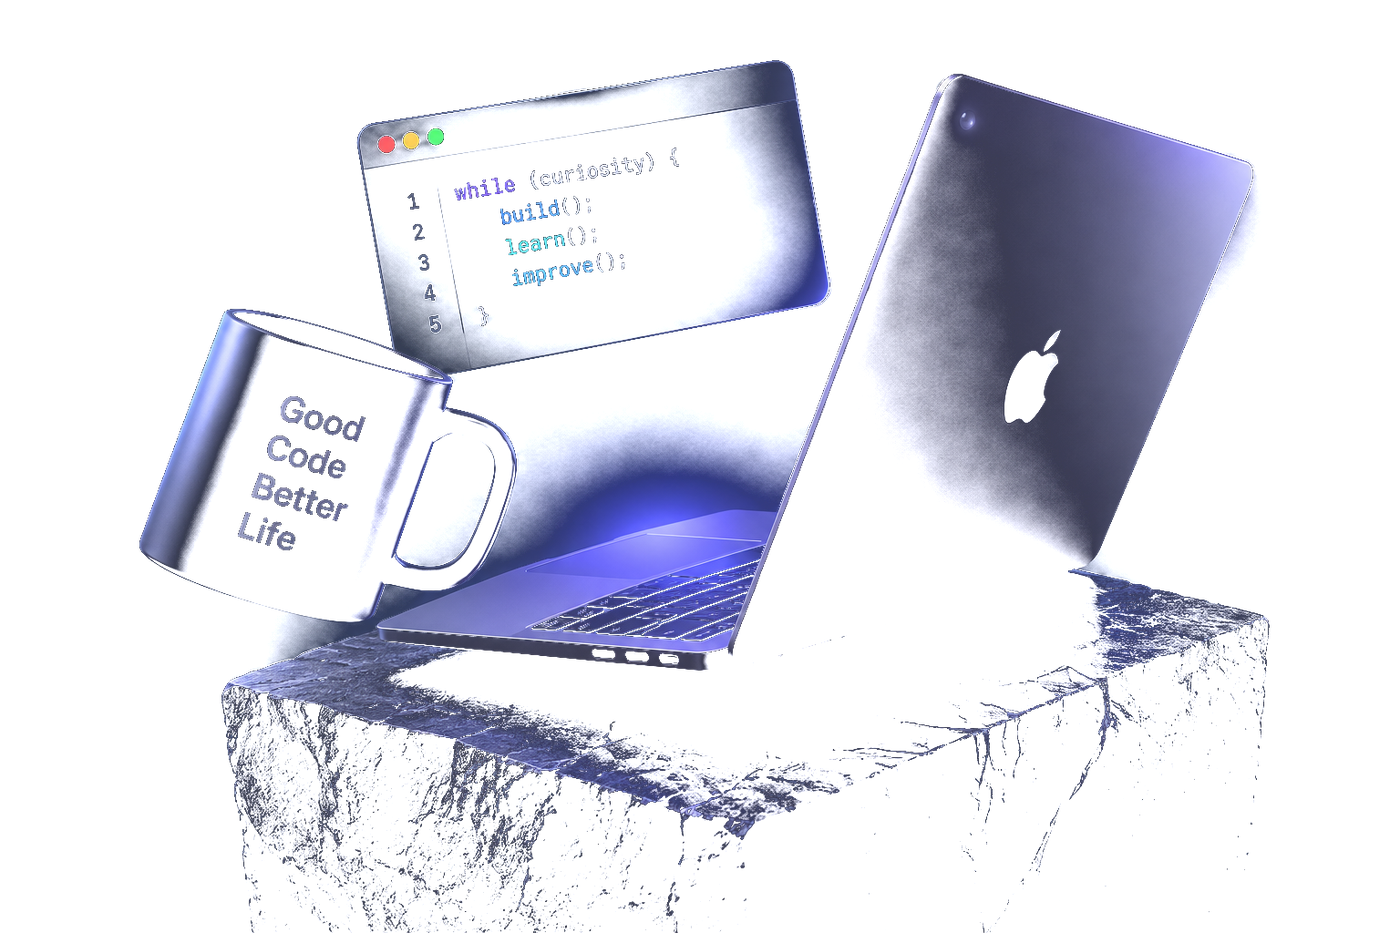
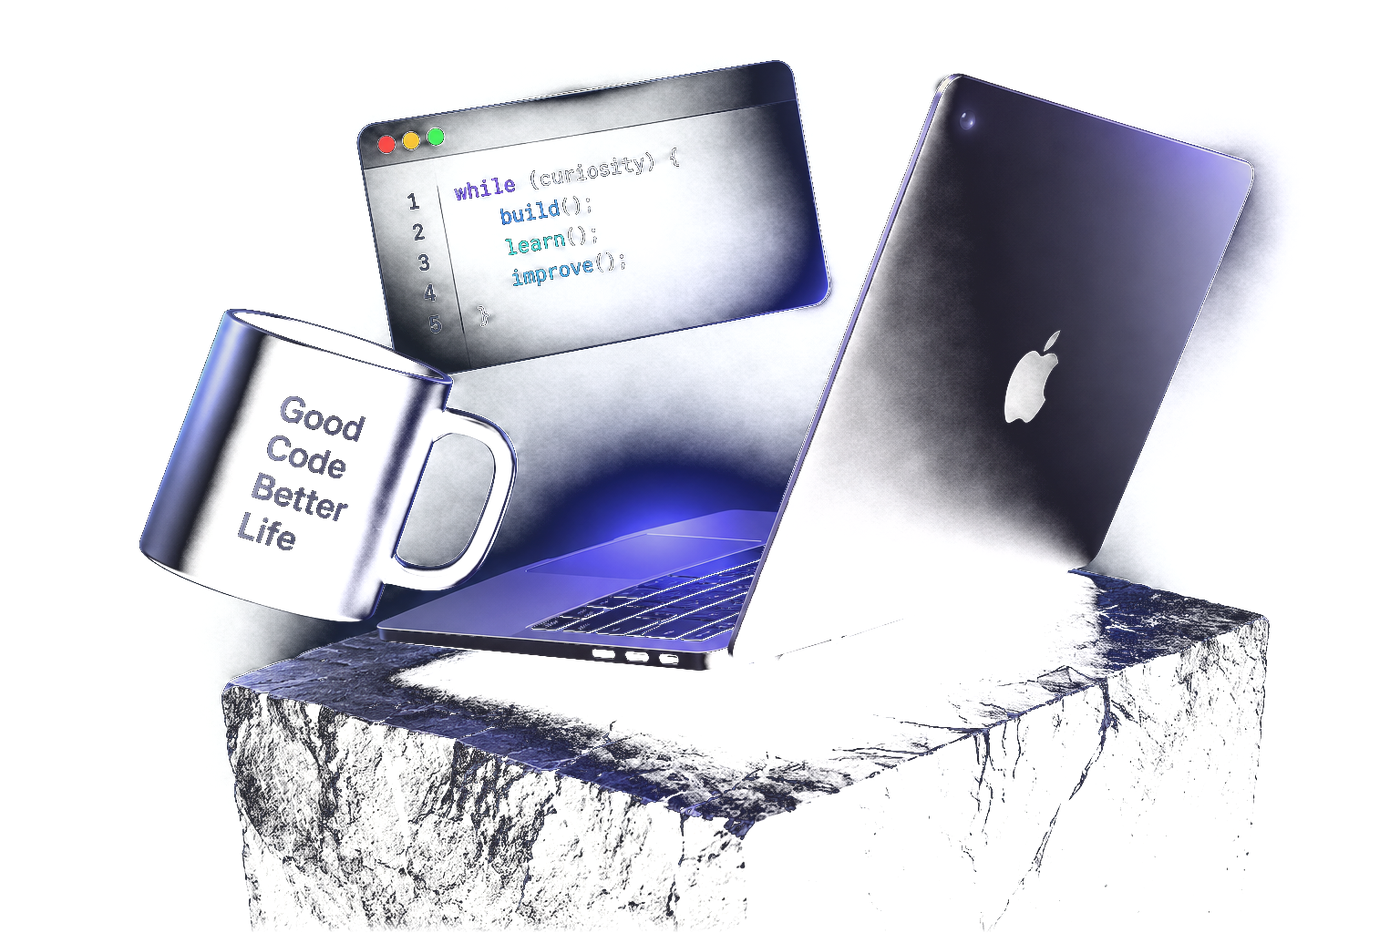
Rebuild the footer and fix the hero render's halos
Footer becomes a real footer: a closing call to action, brand blurb with
socials, and navigate / contact / résumé columns above the copyright bar.

The hero cutout was un-premultiplying before removing the backdrop, so
the backdrop's own colour divided by a small alpha bloomed into grey
halos around the subject. Subtract the pedestal first, then derive alpha
— halos gone. A blend mode can't be used here because `main` isolates
the stacking context from the fixed backdrop.

diff --git a/src/app/globals.css b/src/app/globals.css
@@ -207,7 +207,8 @@ p { margin: 0; }
 .stat .l { font-family: var(--mono); font-size: 12px; letter-spacing: .06em; color: var(--muted-2); text-transform: uppercase; margin-top: 4px; }
 
 /* ---- 3D illustration (drop public/hero.png to use it) ---- */
-/* transparent-background render — no mask or blend needed */
+/* backdrop is cut out in the file itself, so it composites cleanly over the
+   animated background (a blend mode can't reach it — `main` isolates it) */
 .hero-illus { position: relative; z-index: 1;
   width: 100%; max-width: 620px; height: auto; margin-inline: auto; display: block; }
 @media (min-width: 961px) { .hero-illus { width: 118%; max-width: none; } }
@@ -415,12 +416,53 @@ p { margin: 0; }
 @media (max-width: 860px) { .page-head-grid { grid-template-columns: 1fr; } .page-art { order: -1; } }
 
 /* ---- FOOTER ---- */
-.foot { border-top: 1px solid var(--line); padding-block: var(--s5); margin-top: var(--s6); }
-.foot-inner { display: flex; align-items: center; justify-content: space-between; gap: 20px; flex-wrap: wrap; }
-.foot-nav { display: flex; gap: 6px; flex-wrap: wrap; }
-.foot-nav a { color: var(--muted); font-size: 14px; padding: 6px 10px; border-radius: 8px; transition: color .2s, background .2s; }
-.foot-nav a:hover { color: var(--text); background: var(--card-2); }
+.foot { border-top: 1px solid var(--line); margin-top: var(--s7); padding-top: var(--s6); padding-bottom: var(--s4); }
+
+.foot-cta {
+  display: flex; align-items: center; justify-content: space-between; gap: var(--s4);
+  flex-wrap: wrap; padding-bottom: var(--s6); border-bottom: 1px solid var(--line);
+}
+.foot-cta-title { font-size: clamp(26px, 3.4vw, 40px); line-height: 1.05; margin-top: var(--s2); }
+
+.foot-cols {
+  display: grid; grid-template-columns: 1.6fr .8fr 1fr .8fr; gap: clamp(24px, 4vw, 56px);
+  padding-block: var(--s6);
+}
+.foot-brand p { color: var(--muted); font-size: 14.5px; line-height: 1.6; margin-top: var(--s2); max-width: 34ch; }
+.foot-socials { display: flex; gap: 10px; margin-top: var(--s3); }
+.foot-socials a {
+  width: 38px; height: 38px; display: grid; place-items: center; border-radius: 10px;
+  border: 1px solid var(--line); background: var(--card); color: var(--muted);
+  transition: color .2s, transform .18s, border-color .2s, background .2s;
+}
+.foot-socials a:hover { color: var(--text); transform: translateY(-2px); border-color: var(--line-2); background: var(--card-2); }
+.foot-socials svg { width: 17px; height: 17px; }
+
+.foot-col { display: flex; flex-direction: column; gap: 10px; }
+.foot-col h3 {
+  font-family: var(--mono); font-size: 11.5px; letter-spacing: .14em; text-transform: uppercase;
+  color: var(--muted-2); font-weight: 400; margin-bottom: 4px;
+}
+.foot-col a { color: var(--muted); font-size: 14.5px; width: fit-content; transition: color .2s; }
+.foot-col a:hover { color: var(--text); }
+.foot-col a:hover { text-decoration: underline; text-underline-offset: 4px; text-decoration-color: var(--line-2); }
+.foot-muted { color: var(--muted-2); font-size: 14px; }
+
+.foot-bottom {
+  display: flex; align-items: center; justify-content: space-between; gap: 16px; flex-wrap: wrap;
+  padding-top: var(--s4); border-top: 1px solid var(--line);
+}
 .copy { color: var(--muted-2); font-size: 13.5px; }
+
+@media (max-width: 900px) {
+  .foot-cols { grid-template-columns: 1fr 1fr; gap: var(--s5) var(--s4); }
+  .foot-brand { grid-column: 1 / -1; }
+}
+@media (max-width: 520px) {
+  .foot-cols { grid-template-columns: 1fr; }
+  .foot-cta { padding-bottom: var(--s5); }
+  .foot-bottom { flex-direction: column; align-items: flex-start; gap: 6px; }
+}
 
 /* ============================================================ RESPONSIVE */
 @media (max-width: 960px) {

diff --git a/src/components/Footer.tsx b/src/components/Footer.tsx
@@ -1,17 +1,63 @@
 import Link from "next/link";
-import { navLinks } from "@/lib/data";
+import { navLinks, profile } from "@/lib/data";
+import { GithubIcon, LinkedinIcon, MailIcon, ArrowRight } from "@/lib/icons";
 
 export default function Footer() {
   return (
     <footer className="foot">
-      <div className="wrap foot-inner">
-        <Link href="/" className="logo"><b>SC</b><i>.</i></Link>
-        <nav className="foot-nav" aria-label="Footer">
-          {navLinks.map((l) => (
-            <Link key={l.href} href={l.href}>{l.label}</Link>
-          ))}
-        </nav>
-        <div className="copy">© {new Date().getFullYear()} Salil Chandwadkar · Building software that scales.</div>
+      <div className="wrap">
+        {/* closing call to action */}
+        <div className="foot-cta">
+          <div>
+            <span className="eyebrow">Open to opportunities</span>
+            <h2 className="foot-cta-title">Let&apos;s build something that scales.</h2>
+          </div>
+          <Link href="/contact" className="btn primary">
+            Start a conversation <ArrowRight />
+          </Link>
+        </div>
+
+        <div className="foot-cols">
+          <div className="foot-brand">
+            <Link href="/" className="logo"><b>SC</b><i>.</i></Link>
+            <p>
+              Software engineer building event-driven microservices in Java and Spring Boot —
+              currently at Dassault Systèmes, Pune.
+            </p>
+            <div className="foot-socials">
+              <a href={profile.github} target="_blank" rel="noopener noreferrer" aria-label="GitHub"><GithubIcon /></a>
+              <a href={profile.linkedin} target="_blank" rel="noopener noreferrer" aria-label="LinkedIn"><LinkedinIcon /></a>
+              <a href={`mailto:${profile.email}`} aria-label="Email"><MailIcon /></a>
+            </div>
+          </div>
+
+          <nav className="foot-col" aria-label="Footer">
+            <h3>Navigate</h3>
+            {navLinks.map((l) => (
+              <Link key={l.href} href={l.href}>{l.label}</Link>
+            ))}
+          </nav>
+
+          <div className="foot-col">
+            <h3>Get in touch</h3>
+            <a href={`mailto:${profile.email}`}>{profile.email}</a>
+            <a href={profile.linkedin} target="_blank" rel="noopener noreferrer">{profile.linkedinHandle}</a>
+            <a href={profile.github} target="_blank" rel="noopener noreferrer">{profile.githubHandle}</a>
+            <span className="foot-muted">{profile.location}</span>
+          </div>
+
+          <div className="foot-col">
+            <h3>Résumé</h3>
+            <a href={profile.resumeUrl} download>Download PDF</a>
+            <span className="foot-muted">Java · Spring Boot</span>
+            <span className="foot-muted">Kafka · AWS</span>
+          </div>
+        </div>
+
+        <div className="foot-bottom">
+          <span className="copy">© {new Date().getFullYear()} {profile.name}. All rights reserved.</span>
+          <span className="copy">Built with Next.js &amp; deployed on Vercel.</span>
+        </div>
       </div>
     </footer>
   );

diff --git a/scripts/cutout.py b/scripts/cutout.py
@@ -1,54 +1,67 @@
-"""Knock the dark background out of a product render.
+"""Knock the dark backdrop out of a studio product render.
 
-The render was lit on a near-black backdrop, so luminance is a good alpha
-channel: background -> transparent, subject/glow -> opaque. RGB is
-un-premultiplied so compositing over black reproduces the original exactly.
+Two steps, and the order matters:
+
+1. Subtract the backdrop's pedestal so the surrounding frame is pure black.
+2. Derive alpha from the remaining luminance and un-premultiply the colour.
+
+Doing (2) without (1) is what produces grey halos around the subject: the
+backdrop's own colour (say 22,25,36) divided by a small alpha explodes into a
+bright fringe. Once the backdrop is 0, those pixels stay 0 and disappear
+cleanly.
+
+Usage:
+    python3 scripts/cutout.py <render.png> <out.png> [pct] [thresh] [gain]
+
+    pct     percentile of the border taken as the backdrop level (default 94).
+            Raise if a faint rectangle survives.
+    thresh  luminance that becomes fully opaque (default 34). Lower keeps more
+            of the subject's dark areas solid.
+    gain    brightness restored after subtraction (default 1.08).
 """
 import sys
+
 import numpy as np
 from PIL import Image
 
 src_path, out_path = sys.argv[1], sys.argv[2]
-lo = float(sys.argv[3]) if len(sys.argv) > 3 else None
-hi = float(sys.argv[4]) if len(sys.argv) > 4 else None
+pct = float(sys.argv[3]) if len(sys.argv) > 3 else 94.0
+thresh = float(sys.argv[4]) if len(sys.argv) > 4 else 34.0
+gain = float(sys.argv[5]) if len(sys.argv) > 5 else 1.08
 
 img = Image.open(src_path).convert("RGB")
-rgb = np.asarray(img).astype(np.float32)
-lum = 0.2126 * rgb[..., 0] + 0.7152 * rgb[..., 1] + 0.0722 * rgb[..., 2]
+a = np.asarray(img).astype(np.float32)
+h, w, _ = a.shape
 
-h, w = lum.shape
-corner = np.concatenate([
-    lum[:h // 12, :w // 12].ravel(), lum[:h // 12, -w // 12:].ravel(),
-    lum[-h // 12:, :w // 12].ravel(), lum[-h // 12:, -w // 12:].ravel(),
+# --- 1. flatten the backdrop to black -------------------------------------
+bh, bw = max(4, h // 18), max(4, w // 18)
+border = np.concatenate([
+    a[:bh].reshape(-1, 3), a[-bh:].reshape(-1, 3),
+    a[:, :bw].reshape(-1, 3), a[:, -bw:].reshape(-1, 3),
 ])
-pcts = np.percentile(lum, [1, 10, 25, 50, 75, 90, 99])
-print(f"size={w}x{h}")
-print("lum percentiles [1,10,25,50,75,90,99] =", np.round(pcts, 1).tolist())
-print(f"corner bg: mean={corner.mean():.1f} p95={np.percentile(corner,95):.1f} max={corner.max():.1f}")
+pedestal = np.percentile(border, pct, axis=0)
+sub = np.clip((a - pedestal) * gain, 0, 255)
+print("backdrop pedestal (r,g,b) =", np.round(pedestal, 1).tolist())
 
-if lo is None:
-    lo = float(np.percentile(corner, 97))          # everything at backdrop level -> gone
-if hi is None:
-    hi = lo + 26.0                                  # short ramp keeps the glow soft
-print(f"using lo={lo:.1f} hi={hi:.1f}")
+# --- 2. alpha from what's left --------------------------------------------
+lum = 0.2126 * sub[..., 0] + 0.7152 * sub[..., 1] + 0.0722 * sub[..., 2]
+t = np.clip(lum / thresh, 0.0, 1.0)
+alpha = t * t * (3.0 - 2.0 * t)          # smoothstep
 
-t = np.clip((lum - lo) / max(hi - lo, 1e-6), 0.0, 1.0)
-alpha = t * t * (3.0 - 2.0 * t)                     # smoothstep
+safe = np.maximum(alpha, 1e-2)[..., None]
+rgb = np.clip(sub / safe, 0, 255)
+rgb = np.where(alpha[..., None] > 0, rgb, 0)
 
-# Un-premultiply so `rgb * alpha` over black == original pixel.
-safe = np.maximum(alpha, 1e-3)[..., None]
-out_rgb = np.clip(rgb / safe, 0, 255)
-out_rgb = np.where(alpha[..., None] > 0, out_rgb, 0)
+# Feather the outermost pixels so the frame edge can never show.
+fy, fx = np.ones(h, np.float32), np.ones(w, np.float32)
+ry, rx = max(2, h // 60), max(2, w // 60)
+fy[:ry], fy[-ry:] = np.linspace(0, 1, ry), np.linspace(1, 0, ry)
+fx[:rx], fx[-rx:] = np.linspace(0, 1, rx), np.linspace(1, 0, rx)
+alpha *= fy[:, None] * fx[None, :]
 
-out = np.dstack([out_rgb, alpha * 255.0]).astype(np.uint8)
-Image.fromarray(out, "RGBA").save(out_path)
+out = np.dstack([rgb, alpha * 255.0]).astype(np.uint8)
+Image.fromarray(out).save(out_path)
 
-op = (alpha > 0.98).mean() * 100
-tr = (alpha < 0.02).mean() * 100
-print(f"wrote {out_path}: {tr:.1f}% transparent, {op:.1f}% opaque")
-
-# Usage:
-#   python3 scripts/cutout.py <render.png> <public/art-projects.png> [lo] [hi]
-# `lo`/`hi` are luminance thresholds (defaults are derived from the corners).
-# Raise `lo` if a faint haze remains around the subject; lower it if the
-# subject's dark areas start disappearing.
+print(f"wrote {out_path}: "
+      f"{(alpha < 0.02).mean() * 100:.1f}% transparent, "
+      f"{(alpha > 0.98).mean() * 100:.1f}% opaque")
